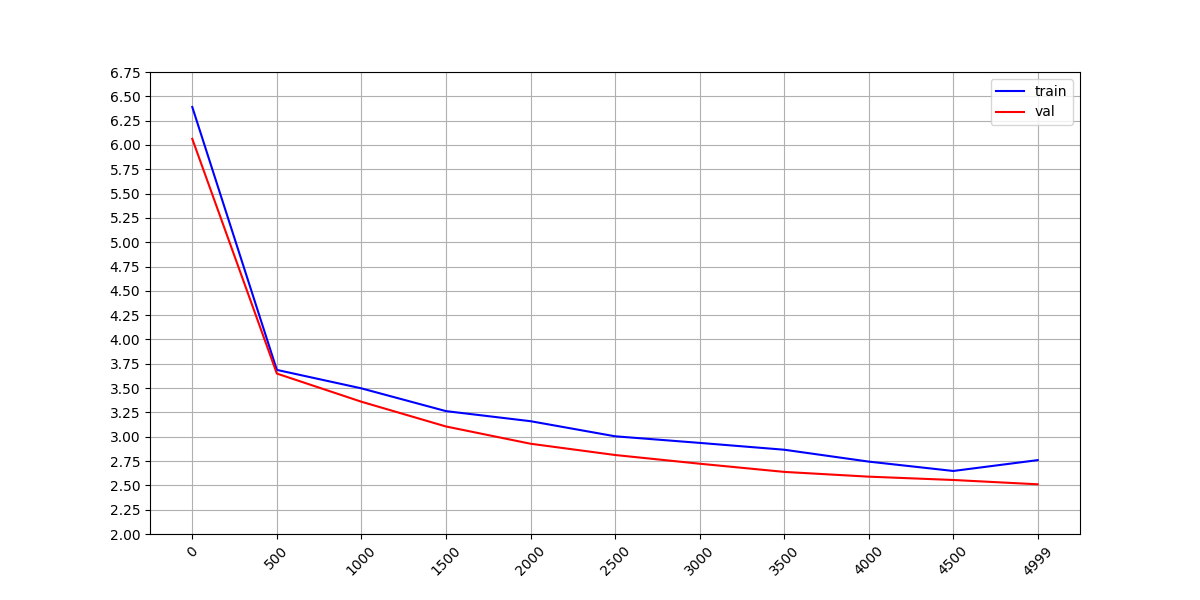
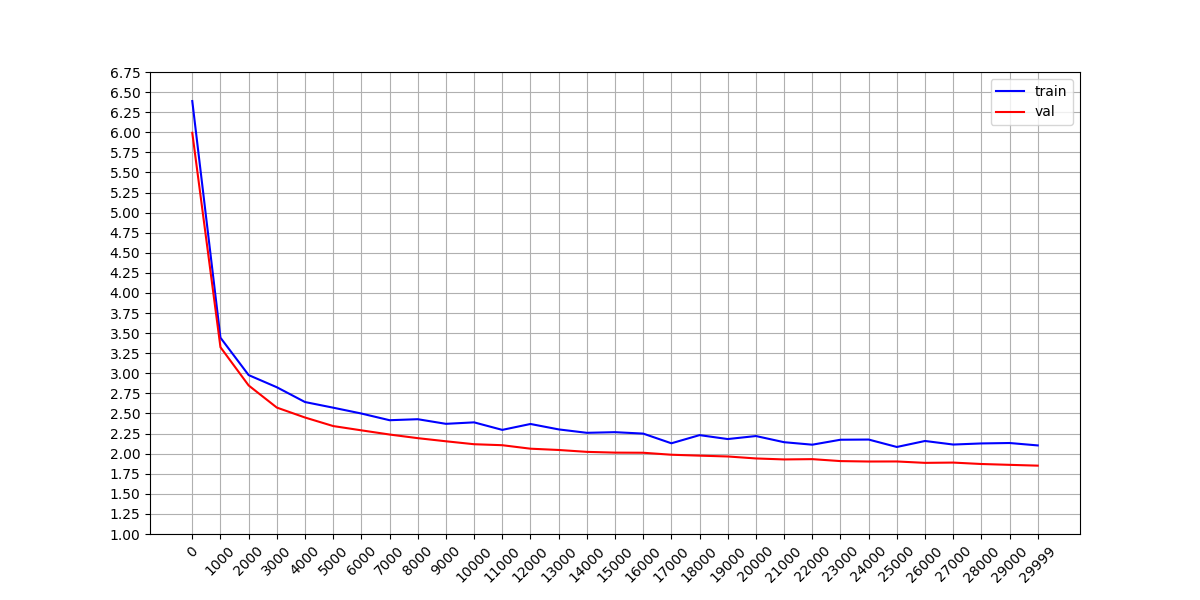
add better gpt training run

Changed region(s): [[0.0925, 0.15, 0.8942, 0.9], [0.1542, 0.9, 0.8942, 0.96]]

diff --git a/train_gpt.py b/train_gpt.py
@@ -68,7 +68,7 @@ def generate_text(
 
 if __name__ == "__main__":
     # Get data.
-    BLOCK_SIZE = 128
+    BLOCK_SIZE = 256
     bpe, train_dl, val_dl = get_encoder_dataloaders(
         Path("data/war_and_peace"),
         block_size=BLOCK_SIZE,
@@ -83,7 +83,7 @@ if __name__ == "__main__":
         d_ffwd=1024,
         block_size=BLOCK_SIZE,
         n_heads=8,
-        n_layers=8,
+        n_layers=10,
         dropout=0.6,
     )
     gpt = gpt.to(HyperParams.DEVICE)
@@ -95,8 +95,8 @@ if __name__ == "__main__":
         optimizer=optimizer,
         train_dl=train_dl,
         val_dl=val_dl,
-        steps=5_000,
-        eval_step_size=500,
+        steps=30_000,
+        eval_step_size=1_000,
         eval_steps=15,
     )
 
